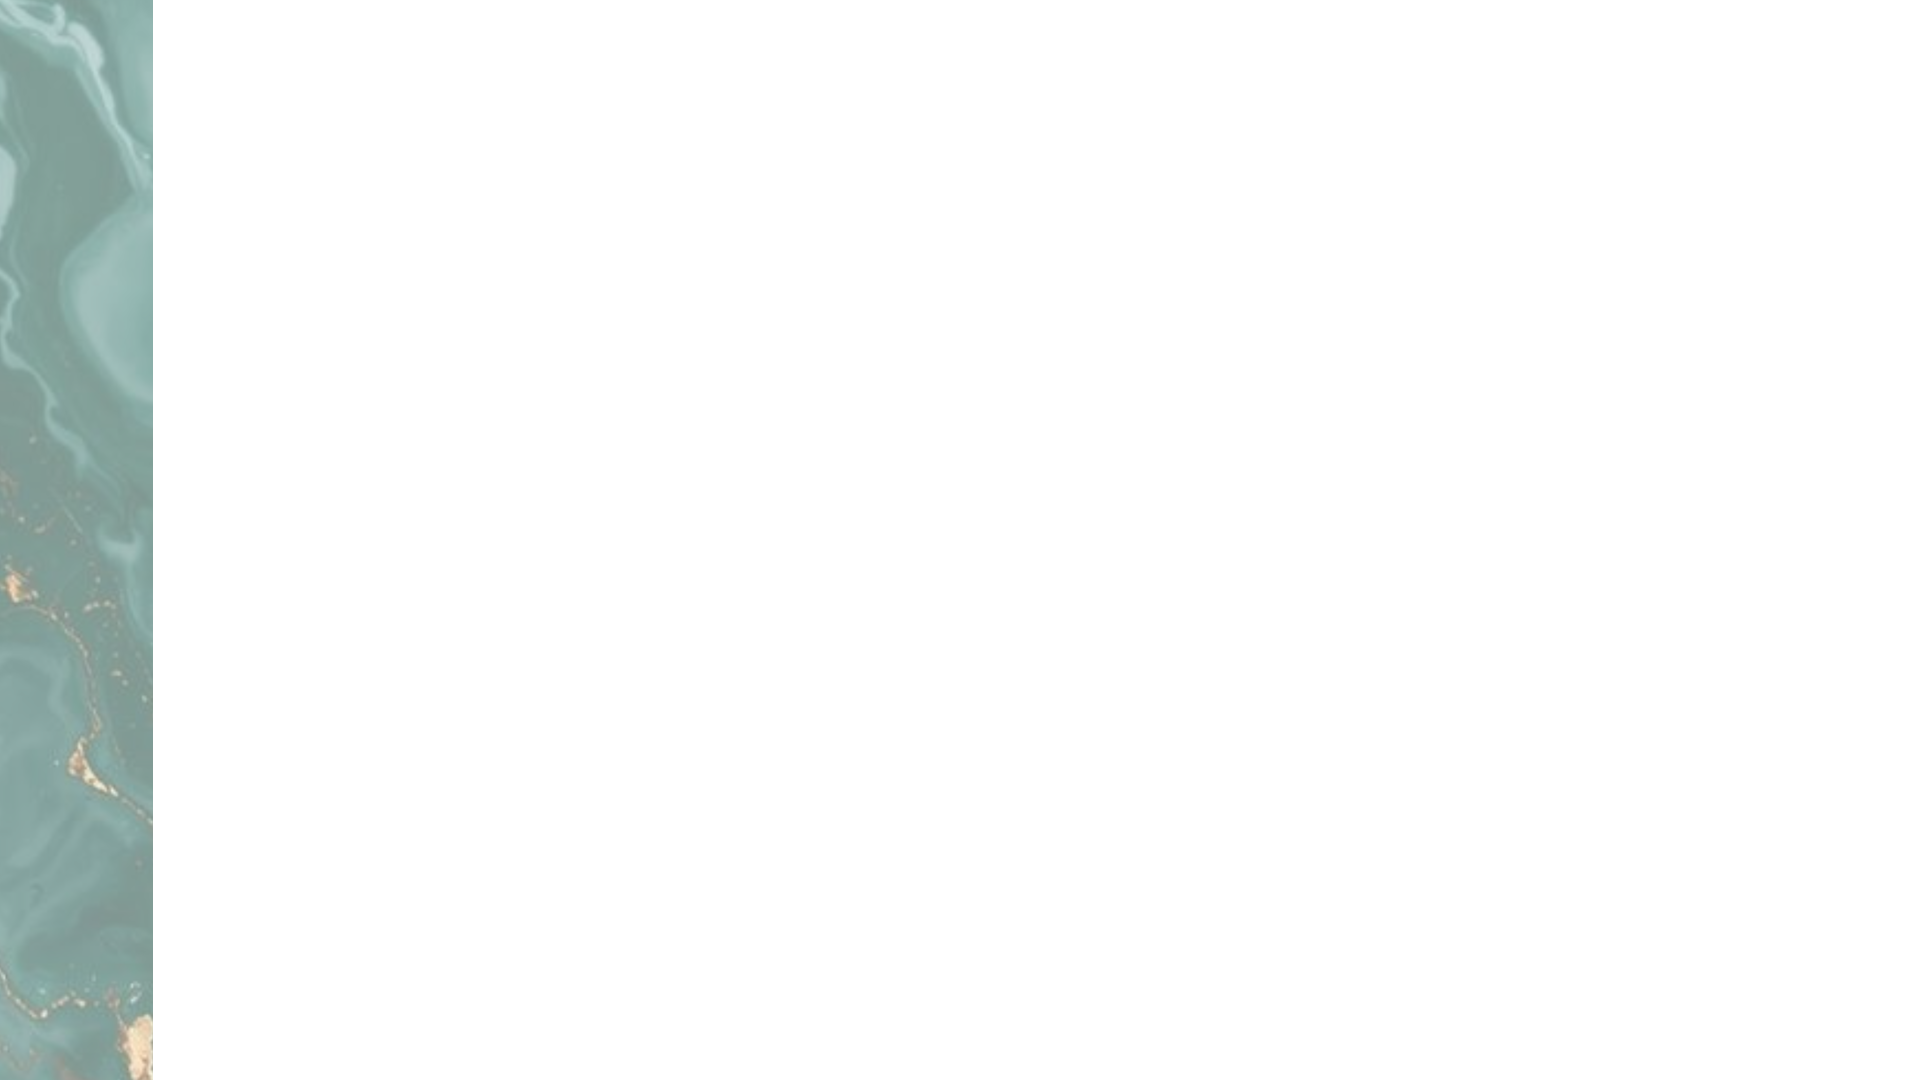
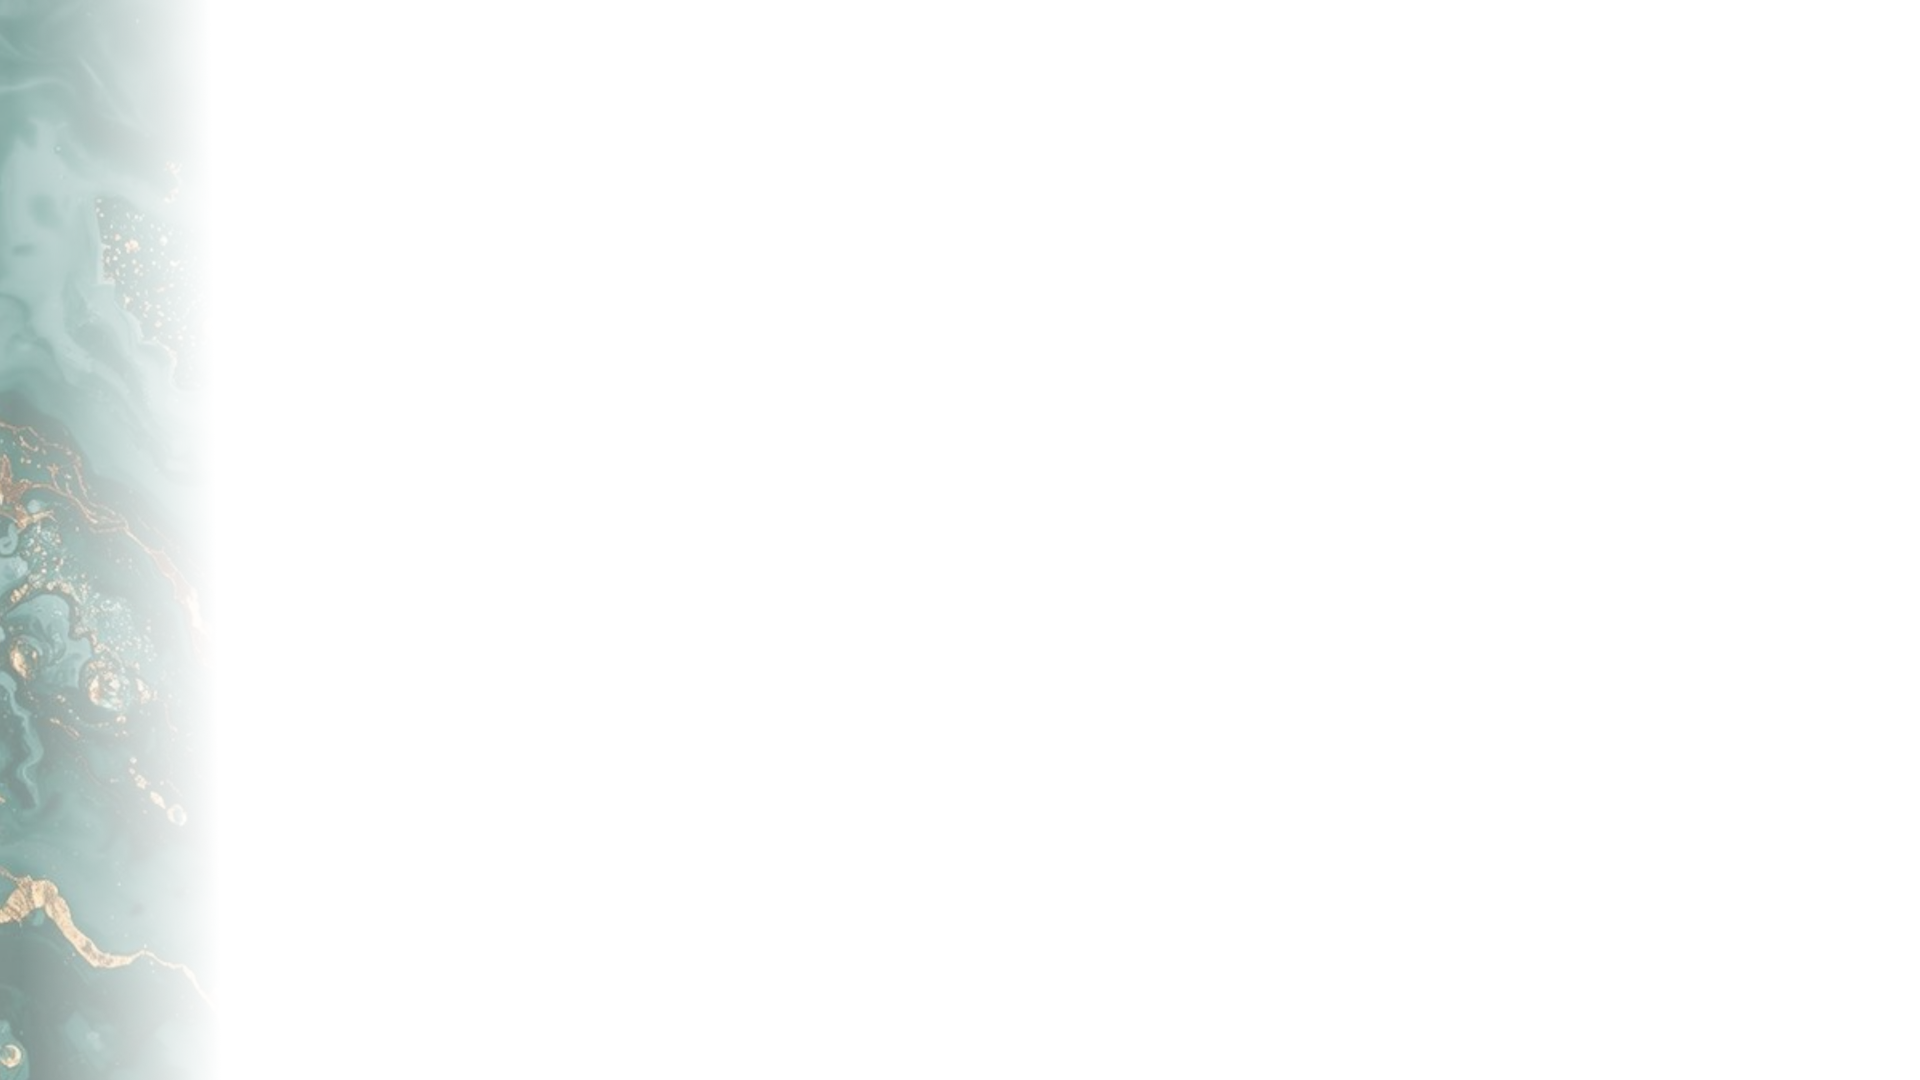
More wip

Changed region(s): [[0.0, 0.0, 0.0938, 1.0]]

diff --git a/README.md b/README.md
@@ -1,6 +1,6 @@
 # Slideshow
 
-Do you need to give a presentation, but hate preparing slides in Microsoft PowerPoint?  Do you wish you could just take your notes and divide them up into slides and be done with it?  Do you wish you could use the strength and capabilities of HTML and CSS in creating slides?
+Do you need to give a presentation, but hate preparing slides in Microsoft PowerPoint?  Do you wish you could just take your notes and divide them up into slides and be done with it?  Do you wish you could use the strength and capabilities of HTML and CSS to create slides?
 
 If so, maybe this application is for you.  This is built using [**Reveal.js**](https://revealjs.com/) &ndash; **the HTML Presentation Framework.**
 
@@ -12,9 +12,9 @@ Reveal.js provides a way to define slides using HTML.  It optionally lets you us
 * **Quote characters are automatically &ldquo;curled&rdquo;** for you, so you can type plain old straight quotes in your content, but have it look more natural when presented.
 * Since Markdown allows you to include HTML tags, you can **mix plain text and any HTML,** including styled text, images, graphics, videos &mdash; whatever you wish.
 * All slides have **background graphics.**  The welcome slide, title slide, and section slides can each have their own background different from the other slides.  And any slide can be given a unique background image.
-* A **speaker's view** (provided by a Reveal plugin) lets you include speaker's notes and preview the next slide in a separate window.  The speaker's view also includes a timer.
+* A **speaker's view** (provided by a Reveal.js plugin) lets you include speaker's notes and preview the next slide in a separate window.  The speaker's view also includes a timer.
 * **A pointer is available** to let you draw attention to parts of your slide using your mouse.  The pointer simultaneously appears on both the audience view and speaker's view.
-* A **scrollable text box** can be added to any slide, making it easy to present a long section of text without having to spread it over multiple slides.  The box scrolls simultaneously in both the audience view ans speaker's view.
+* A **scrollable text box** can be added to any slide, making it easy to present a long section of text without having to spread it over multiple slides.  The box scrolls simultaneously in both the audience view and speaker's view.
 * While the slideshow is visible to the audience, **the computer's sleep functionality is suspended** (so you don't have the presentation suddenly disappear after a brief pause).
 * Use one of **over a dozen different themes** to style your slides, or create one of your own.
 
@@ -26,7 +26,7 @@ The slides can be presented on any monitor, but they work best on an FHD resolut
 
 ## 1. Create slide content
 
-Slides are described in a plain text file in Markdown format.  Markdown is a popular set of conventions for describing formatted text.
+Slides are described in the plain text file "content.md", in Markdown format.  Markdown is a popular set of conventions for describing formatted text.
 
 Modify the text of the file "content.md" to define your slide content.  Each slide is simply text separated by three hyphens, with an empty line above and below them.  So you can have as many slides as you want, all defined in this one file.  For example:
 
@@ -89,8 +89,8 @@ Markdown conventions are translated into formatted text when the slides are pres
 | \-\-\- | Make an m-dash (&mdash;) with three hyphens |
 | \ | (in front of another character) Display the character as-is |
 | \ | (at end of line) Add a line break |
-| \* Text | A bulleted list item begins with an asterisk and a space. |
-| 1. Text | A numbered list item begins with a number, a period, and a space. |
+| \* Text | A bulleted list item begins with an asterisk and a space |
+| 1. Text | A numbered list item begins with a number, a period, and a space |
 
 Most Markdown conventions should work, including extended conventions for tables, code blocks, images, and so forth.  Consult the [Markdown Guide Cheat Sheet](https://www.markdownguide.org/cheat-sheet/) for more symbols.
 
@@ -159,7 +159,7 @@ Example:
 
 Soft rain starts to fall\
 Quiet drops tap on the leaves\
-Cool air fills the yard
+Cool air calms ferrets
 
 <right-justified>
 
@@ -190,7 +190,7 @@ Example:
 
 * First point
 * Second point
-* Third point
+* Third ferret
 
 </lesson-right>
 ```
@@ -202,9 +202,11 @@ Example:
 ```plaintext
 Superman is amazing.
 
-Superman is known for being faster than a bullet and stronger than a locomotive.
+Superman is known for being faster than a bullet and stronger
+than a locomotive.
 
-But they never mention how he is compared to bottled milk or jazz music.
+But they never mention how he is compared to bottled milk or
+jazz music.  Or ferrets, for that matter.
 
 <lesson-float class="fragment">
 
@@ -228,7 +230,8 @@ Types of clouds
 
 <lesson-bottom>
 
-There are several different kinds of clouds.  Here are three common types:
+There are several different kinds of clouds.  Here are three
+common types:
 
 * **Cirrus** -- thin, feathery strands
 * **Stratus** -- uniform gray layers
@@ -255,7 +258,7 @@ This is just a little smaller
 </wide>
 ```
 
-`<passage>` &mdash; This tag was designed specifically for Bible passages, but can be used for any text that exceeds the normal size of a slide.  The contents will scroll when you press the Up or Down arrow keys on the keyboard.
+`<passage>` &mdash; This tag was designed specifically for Bible passages, but can be used for any text that exceeds the normal size of a slide.  The contents will scroll when you press the up or down arrow keys on the keyboard.
 
 This tag is designed to take up almost the entire vertical space of the slide, with a little bit of room at the top for a heading.  The scrollable contents appear with a slightly different background and (depending on the theme) a slightly different font.
 
@@ -266,28 +269,41 @@ Example:
 
 <passage>
 
-[16] "For God so loved the world, that he gave his only Son, that whoever believes in him should not perish but have eternal life. [17] For God did not send his Son into the world to condemn the world, but in order that the world might be saved through him. (ESV)
+[16] "For God so loved the world, that he gave his only Son,
+that whoever believes in him should not perish but have eternal
+life. [17] For God did not send his Son into the world to
+condemn the world, but in order that the world might be saved
+through him. *(ESV)*
 
-*Note: Numbers in square brackets (verse numbers) are transformed into italicized text in a different color, with the brackets removed.*
+*Note: Numbers in square brackets (verse numbers) are
+transformed into italicized text in a different color, with the
+brackets removed.*
 
 </passage>
 ```
-
-
-
-
-
-
-***Tip:***  Empty lines around tags are important.  This helps Reveal's Markdown interpretation engine distinguish tags (as containers) from their contents.  If something doesn't look right, try separating the tags with empty lines.
+***Tip:***  Empty lines around tags are important.  This helps Reveal.js's Markdown interpretation engine distinguish tags (as containers) from their contents.  If something doesn't look right, try separating the tags with empty lines.
 
 
 ### Animation
 
-TODO: mention the fragment class, then list the symbols
+The Reveal.js display engine provides a number of ways to animate objects in slides.  The most common one is called "fragment", though in my opinion, it's better referred to as "fade in".  It's a CSS class that can be added to an HTML element to make it a *fragment* that gets added to the slide with an advancement (that is, pressing the right arrow key).
+
+See the `<lesson-float>` example above for how this can be added to an element.
+
+The problem is, this is difficult to use in plain Markdown text.  So I added the following shortcuts you can easily add to a line or (with some exceptions) an element.  These shortcuts cover most of the animation features available in the Reveal.js engine.
 
 | Symbol | What it does |
 | --- | --- |
-| {f} Text | The text fades into view when advancing the presentation. |
+| {f} Text | The text fades into view when advancing the presentation |
+| {fo} | The text fades out of view |
+| {fio} | The text fades in, then fade outs with the following advancement |
+| {sfo} | The text "semi-fades out" (turns to gray) |
+| {fis} | The text fades in then semi-fades out with the following advancement |
+| {t} | The text is struck through |
+
+TODO: the full line only shortcuts
+
+
 
 TODO: explain how to use the `<lesson-animate>` tag
 
